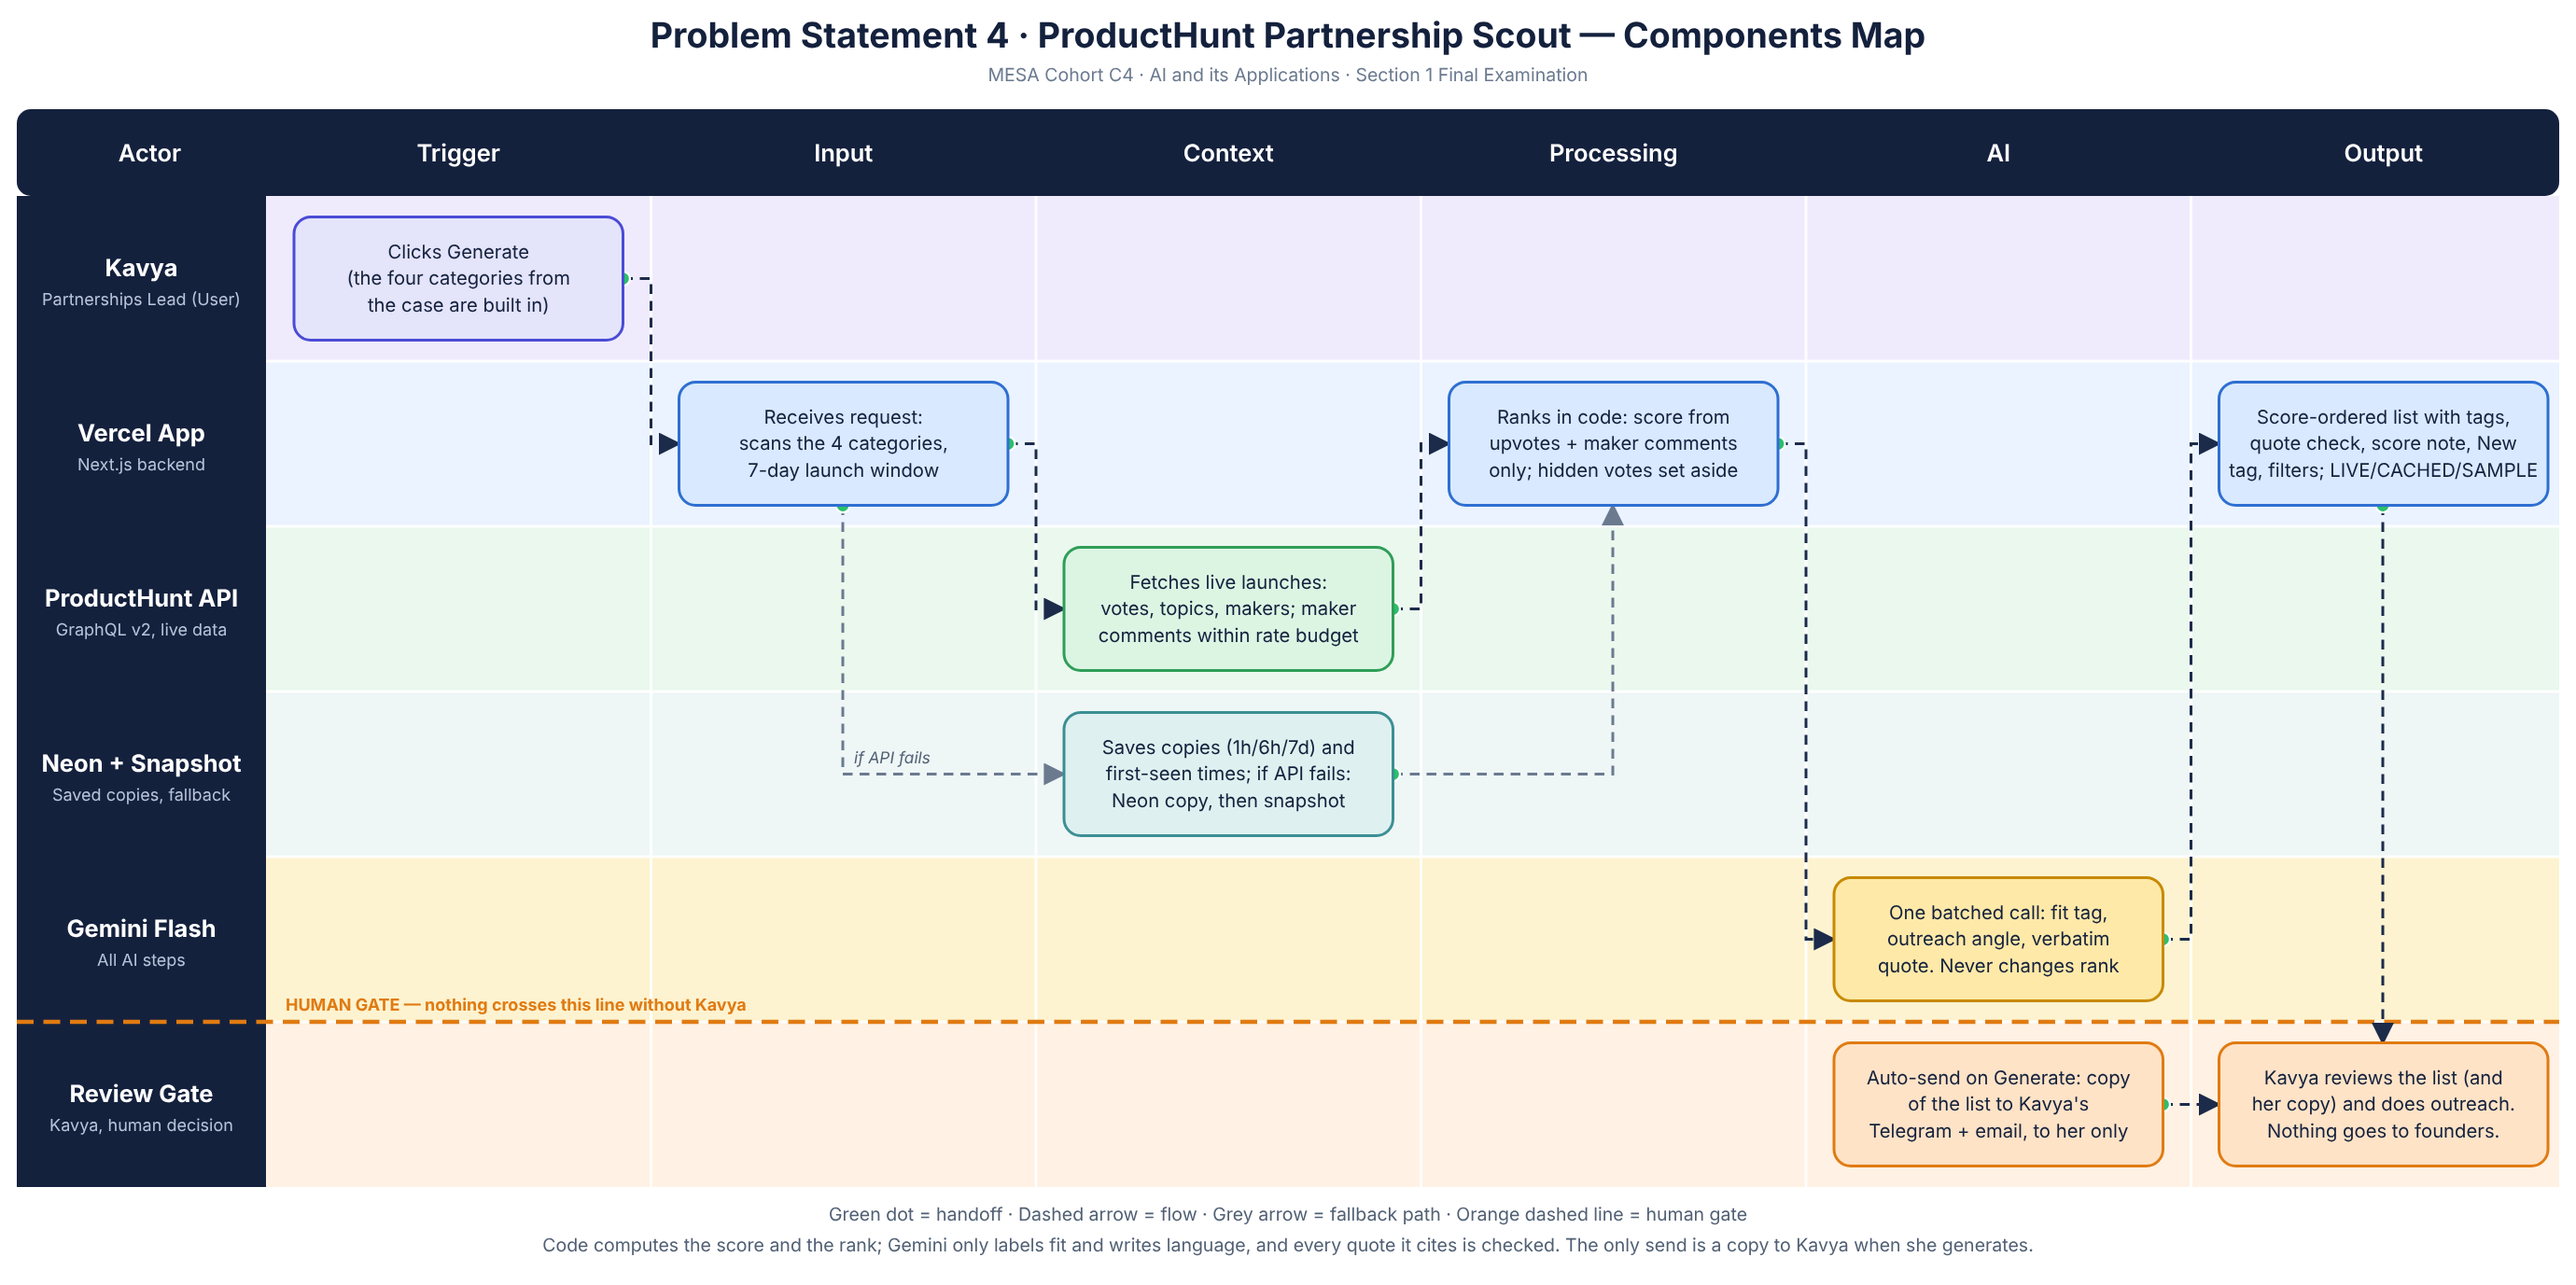
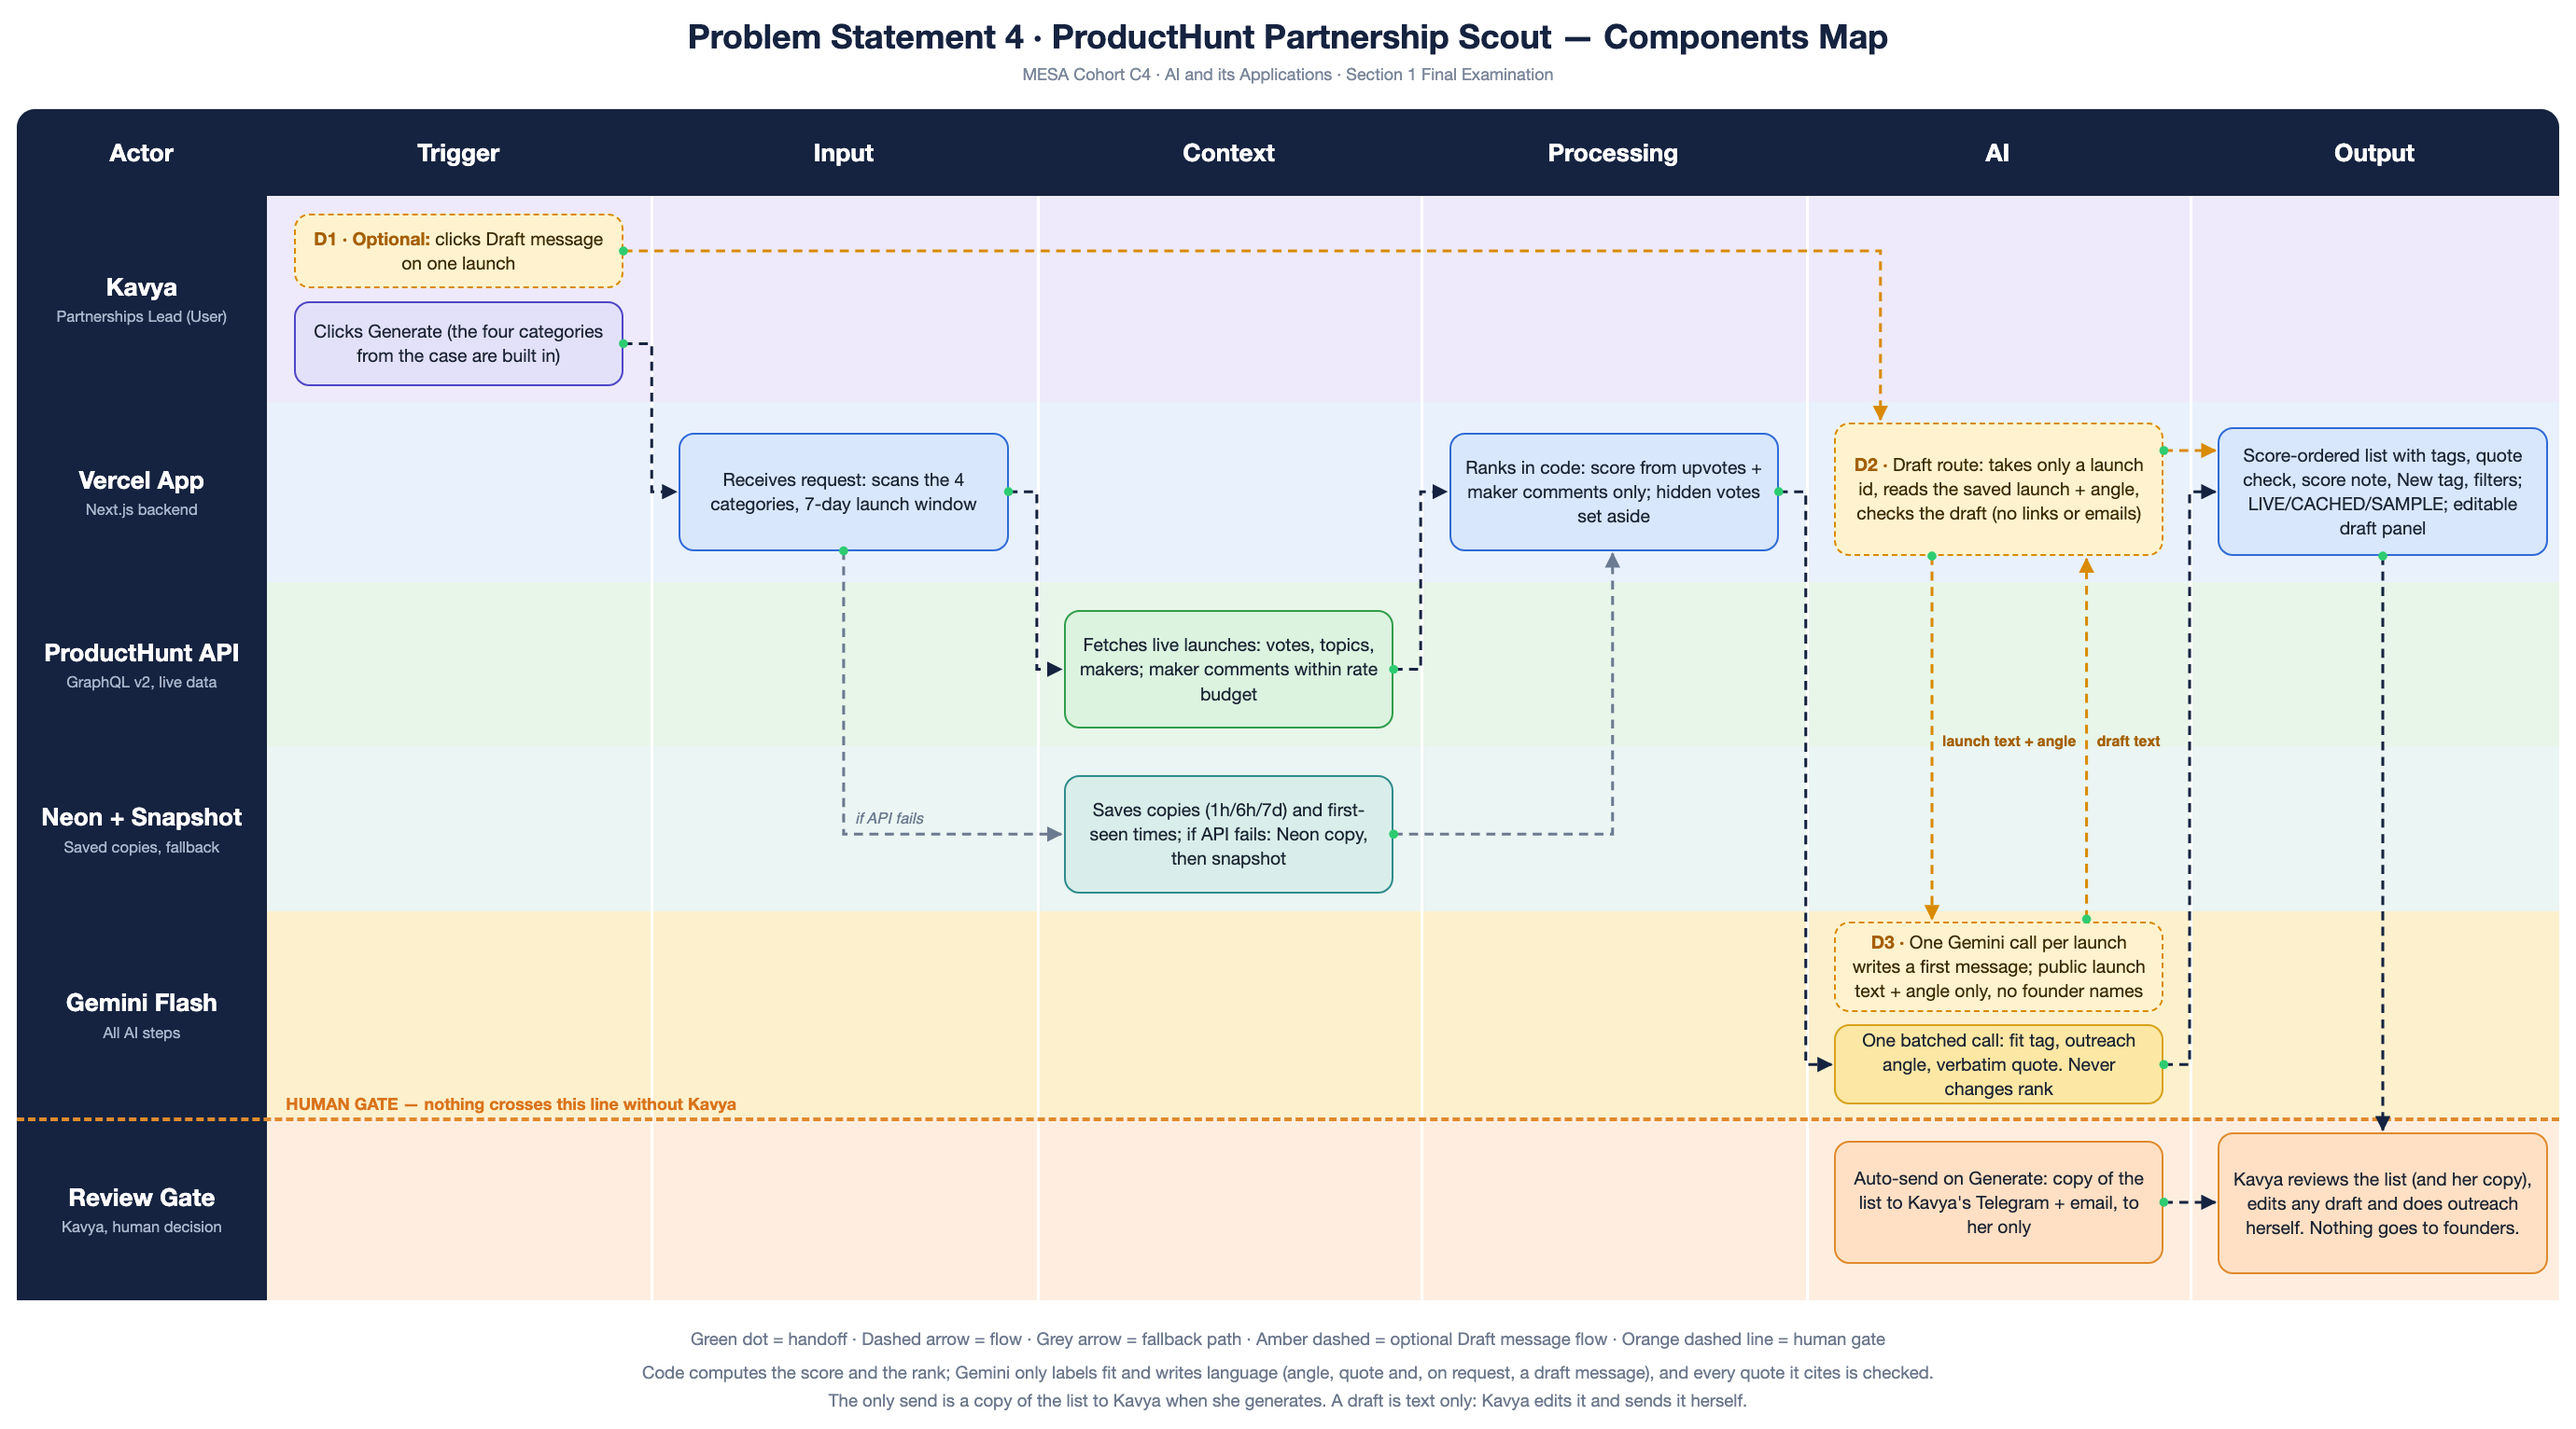
Components Map: add the optional Draft message flow

diff --git a/SUBMISSION.md b/SUBMISSION.md
@@ -2,7 +2,7 @@
 
 - **Public URL:** https://ph-scout.vercel.app
 - **GitHub repo:** https://github.com/kanaynarang-arch/ph-scout
-- **Components Map:** `docs/components-map.png` (also shown in the README; the earlier version is kept in the project folder as `PS4 Components Map (submitted v1).png`)
+- **Components Map:** `docs/components-map.png` (includes the optional Draft message flow, steps D1 to D3) (also shown in the README; the earlier version is kept in the project folder as `PS4 Components Map (submitted v1).png`)
 
 ## 30-second demo path
 
